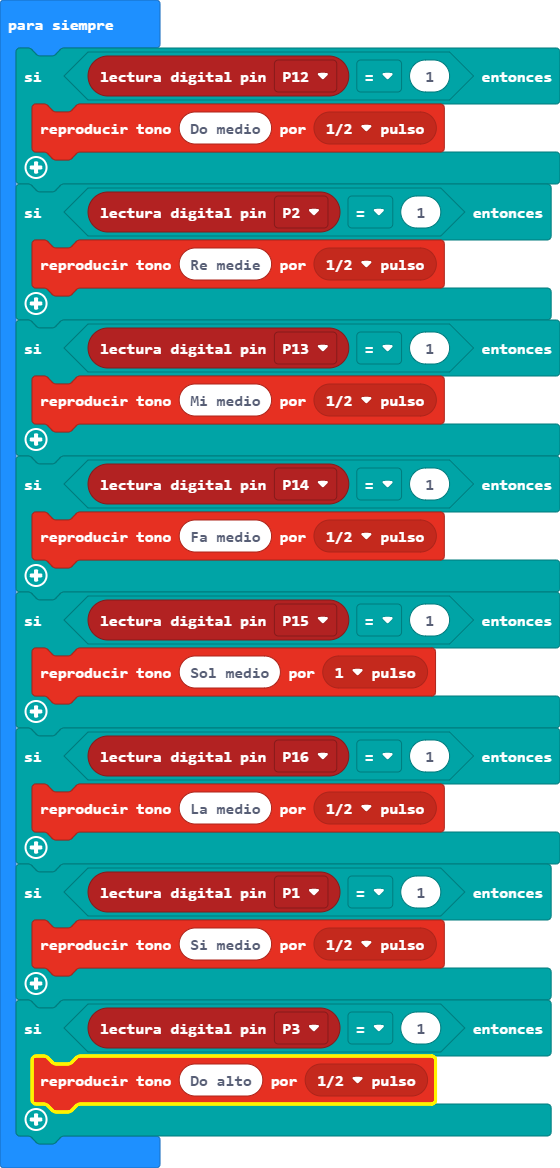
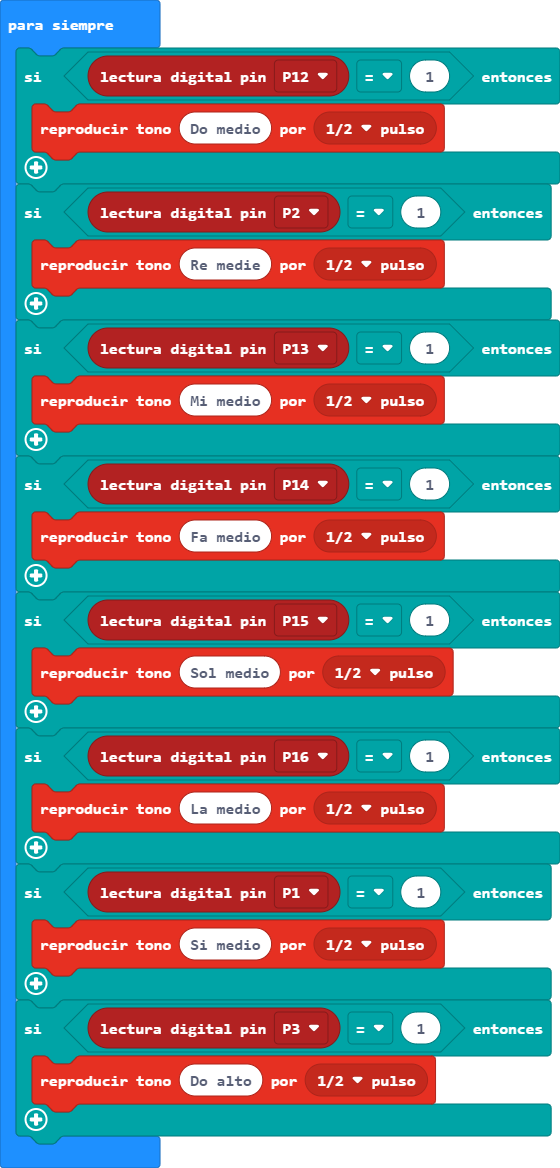
Una de las notas estaba desafinada

Changed region(s): [[0.0304, 0.8938, 0.7893, 0.9555], [0.6679, 0.5548, 0.8196, 0.6164], [0.6071, 0.5548, 0.6375, 0.5856]]

diff --git a/main.ts b/main.ts
@@ -12,7 +12,7 @@ basic.forever(function () {
         music.playTone(349, music.beat(BeatFraction.Half))
     }
     if (pins.digitalReadPin(DigitalPin.P15) == 1) {
-        music.playTone(392, music.beat(BeatFraction.Whole))
+        music.playTone(392, music.beat(BeatFraction.Half))
     }
     if (pins.digitalReadPin(DigitalPin.P16) == 1) {
         music.playTone(440, music.beat(BeatFraction.Half))
